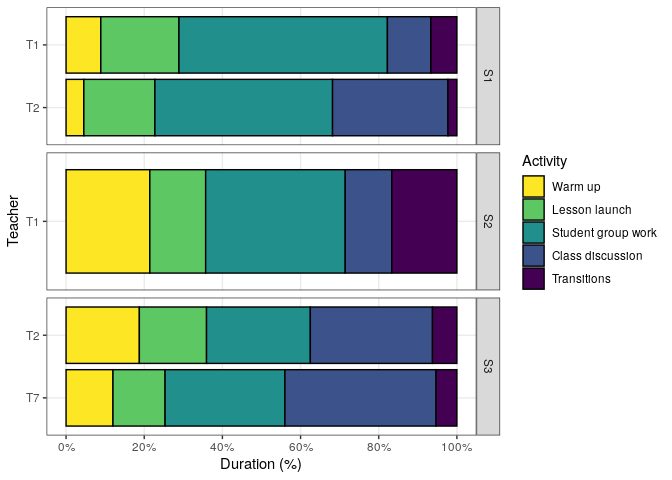
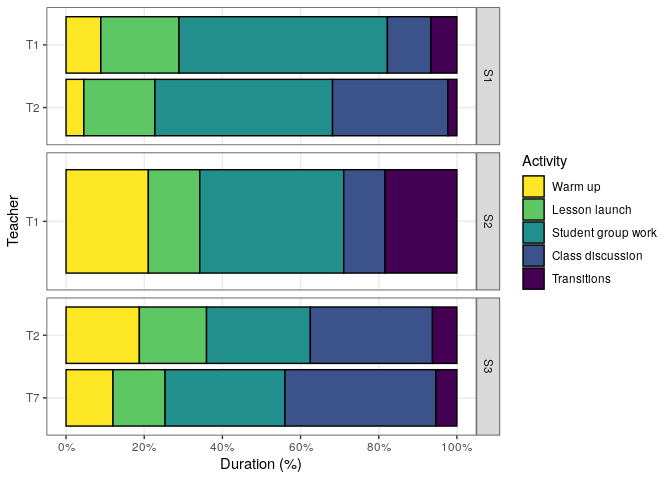
changes

diff --git a/bar_graphs.md b/bar_graphs.md
@@ -34,10 +34,10 @@ df <-
     "S1",    "T2",     "Class discussion",     13,
     "S1",    "T2",     "Transitions",          1,
     
-    "S2",    "T1",     "Warm up",              9,
-    "S2",    "T1",     "Lesson launch",        6,
-    "S2",    "T1",     "Student group work",   15,
-    "S2",    "T1",     "Class discussion",     5,  
+    "S2",    "T1",     "Warm up",              8,
+    "S2",    "T1",     "Lesson launch",        5,
+    "S2",    "T1",     "Student group work",   14,
+    "S2",    "T1",     "Class discussion",     4,  
     "S2",    "T1",     "Transitions",          7,
     
     "S3",    "T2",     "Warm up",              12,
